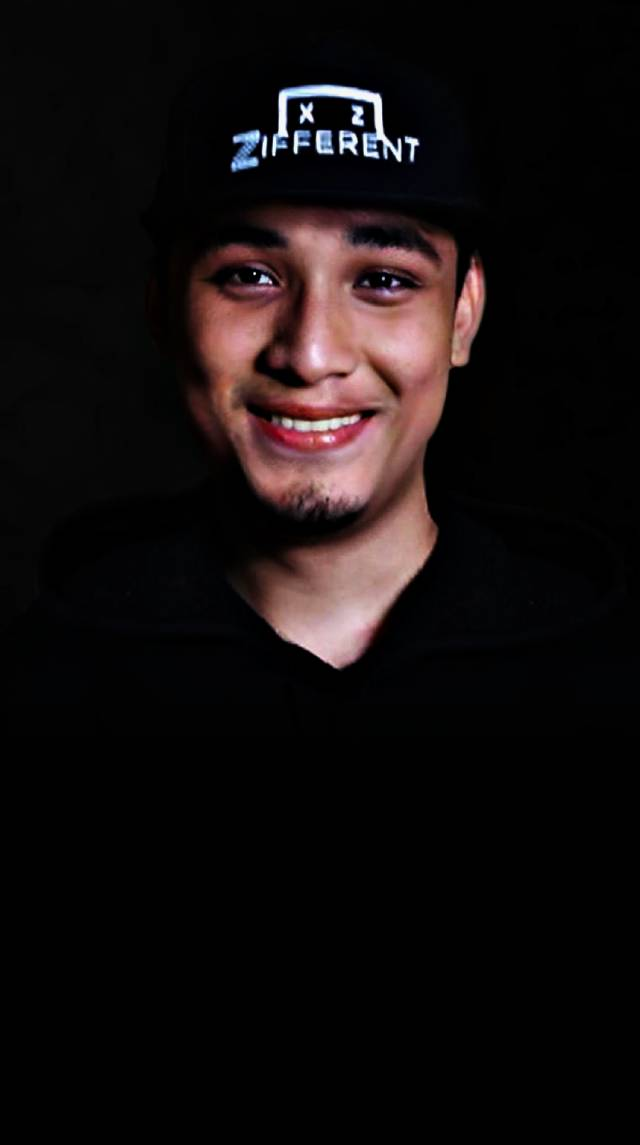
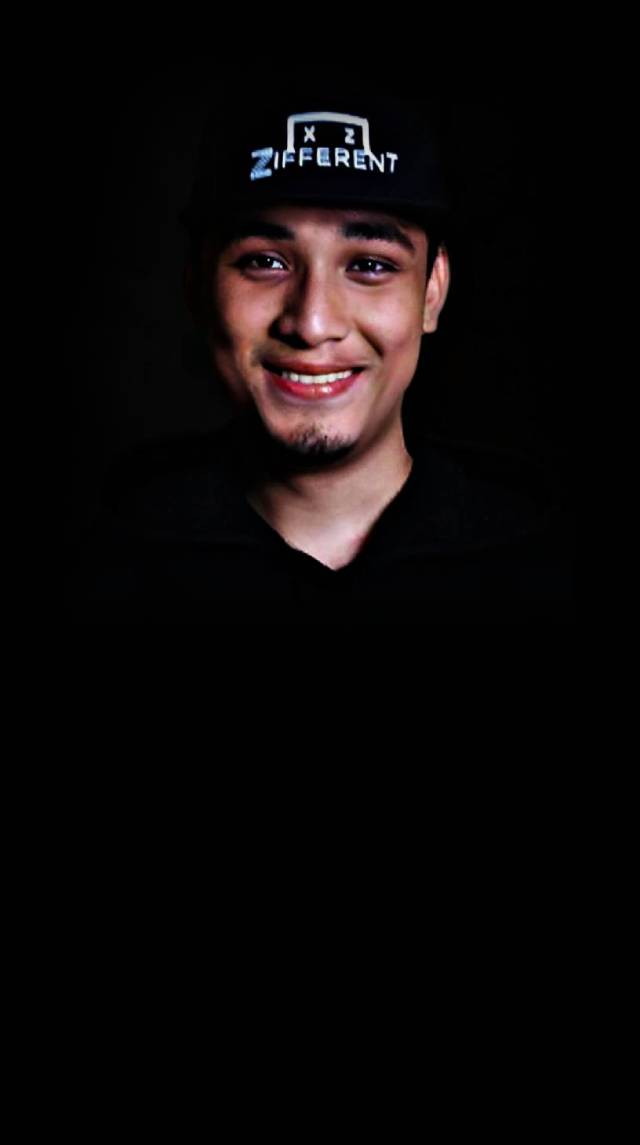
update mobile

Changed region(s): [[0.2812, 0.1834, 0.7812, 0.5808], [0.3438, 0.0611, 0.6562, 0.1528]]

diff --git a/index.html b/index.html
@@ -254,7 +254,7 @@
 											<div class="swiper-slide">
 												<!--Product-->
 												<article class="vlt-project">
-													<h3 class="vlt-project-title">Connect<span class="has-accent-color">.</span></h3>
+													<h3 class="vlt-project-title">Lets Connect</h3>
 													<div class="vlt-project-excerpt">
 														<p>in my opinion. good chemistry, will produce something extraordinary. let's connect chemistry, by looking at my work.</p>
 													</div>
